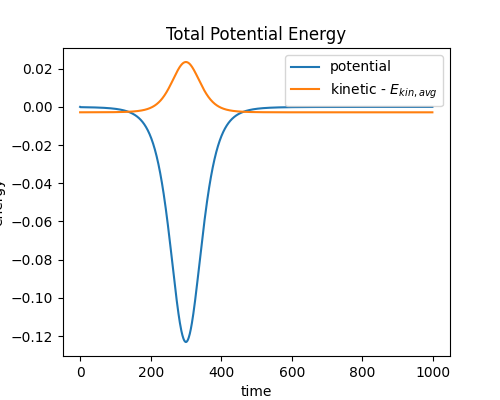
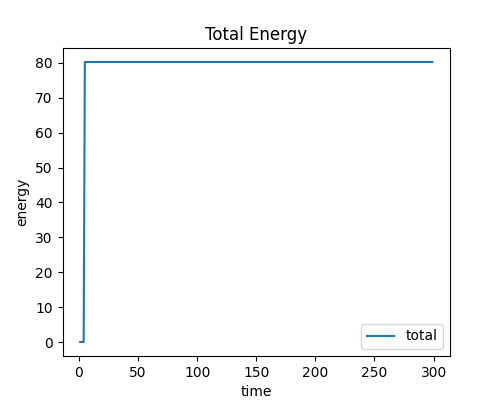
fcc_gaussian

diff --git a/main.py b/main.py
@@ -6,24 +6,31 @@ from matplotlib import animation
 T = 119.8  # [K]   Temperature of system
 kB = 1.380649e-23  # [J/K] Boltzmann constant
 
-epsilon = T * kB  # [J]   Lennard-Jones Potential well depth of Argon
+# rho = 0.3  T = 3.0 gas
+# rho = 0.8  T = 1.0 liquid
+# rho = 1.2  T = 0.5 solid
+rho = 1.2
+temperature = 0.5
+
+# epsilon = T * kB  # [J]   Lennard-Jones Potential well depth of Argon
 sigma = 3.405e-10  # [m]   Lennard-Jones Potential well depth of Argon
 # radius_max = 10000  # [-]   *sigma Lennard-Jones Potential cutoff max radius of interaction
 Ag_m = 6.6335209e-26  # [kg]  Atomic mass of Argon
 
 # Simulation parameters:
-N_particles = 2  # [-]   Amount of particles
-h = 0.001  # [-]   Time step
-N_time = 1000  # [-]   Number of time steps
-box_L = 30  # [-]   *sigma Length of box
+N_particles = 108  # [-]   Amount of particles
+h = 0.01  # [-]   Time step
+N_time = 300  # [-]   Number of time steps
 
+box_L = np.power(N_particles * Ag_m / (sigma ** 3 * rho), 1 / 3)  # [-]   *sigma Length of box
+print("Length of box:", box_L)
 potential_energies = np.zeros(N_time)
 
 # grid (0), random distribution (1), two particles (2)
 if N_particles == 2:
     test_state = 2
 else:
-    test_state = 0
+    test_state = "fcc"
 
 
 def initialize_particles():
@@ -33,33 +40,58 @@ def initialize_particles():
     print("shape of matrix:", particles.shape, "= (t, N, [x y z vx vy vz])")
 
     if test_state == 0:
-        grid_left_boundary = box_L / 2 - 0.8
+        grid_left_boundary = box_L / 2 - 1
         grid_right_boundary = box_L / 2 + 1
         box_grid = np.linspace(grid_left_boundary, grid_right_boundary, num=round(N_particles ** (1 / 3)))
         x_grid, y_grid, z_grid = np.meshgrid(box_grid, box_grid, box_grid)
         particles[0, :, 0] = np.matrix.flatten(x_grid)
         particles[0, :, 1] = np.matrix.flatten(y_grid)
         particles[0, :, 2] = np.matrix.flatten(z_grid)
-        particles[0, :, 3] = 0  # 1/h
-        particles[0, :, 4] = 0  # 1/h
-        particles[0, :, 5] = 0  # 1/h
+        # particles[0, :, 3] = 0  # 1/h
+        # particles[0, :, 4] = 0  # 1/h
+        # particles[0, :, 5] = 0  # 1/h
         return particles
 
     if test_state == 1:
-        np.random.seed(0)
-        random_left_boundary = box_L / 2 - 1
-        random_right_boundary = box_L / 2 + 1
+        # np.random.seed(0)
+        random_left_boundary = box_L / 2 - 2
+        random_right_boundary = box_L / 2 + 2
         particles[0, :, 0] = np.random.uniform(random_left_boundary, random_right_boundary, size=N_particles)
         particles[0, :, 1] = np.random.uniform(random_left_boundary, random_right_boundary, size=N_particles)
         particles[0, :, 2] = np.random.uniform(random_left_boundary, random_right_boundary, size=N_particles)
         return particles
 
     if test_state == 2:
-        v_init_two_particles = 10
+        v_init_two_particles = (1 / h) / 100
         particles[0, 0, 0], particles[0, 0, 1] = [box_L / 2 + 3, box_L / 2 + 1]  # + box_L / 600]
-        particles[0, 1, 0], particles[0, 1, 1] = [box_L / 2 - 3, box_L / 2 - 1]  # - box_L / 600]
+        particles[0, 1, 0], particles[0, 1, 1] = [box_L / 2 - 3, box_L / 2 - 0.5]  # - box_L / 600]
         particles[0, 0, 3], particles[0, 0, 4] = [-v_init_two_particles, 0]
         particles[0, 1, 3], particles[0, 1, 4] = [v_init_two_particles, 0]
+        return particles
+
+    if test_state == "fcc":
+        counter = 0
+        for n1 in range(3):
+            for n2 in range(3):
+                for n3 in range(3):
+                    lattice_displacer = np.array([n1 * box_L / 3, n2 * box_L / 3, n3 * box_L / 3])
+                    particles[0, counter, 0:3] = [0, 0, 0] + lattice_displacer
+                    counter += 1
+                    particles[0, counter, 0:3] = [box_L / 6, box_L / 6, 0] + lattice_displacer
+                    counter += 1
+                    particles[0, counter, 0:3] = [box_L / 6, 0, box_L / 6] + lattice_displacer
+                    counter += 1
+                    particles[0, counter, 0:3] = [0, box_L / 6, box_L / 6] + lattice_displacer
+                    counter += 1
+
+        for j in range(N_particles):
+            gaussian_scale = 0.00001 / h
+            # print(gaussian_scale)
+            vx_random = np.random.normal(scale=gaussian_scale)
+            vy_random = np.random.normal(scale=gaussian_scale)
+            vz_random = np.random.normal(scale=gaussian_scale)
+            # print(vx_random)
+            particles[0, j, 3:6] = [vx_random, vy_random, vz_random]
         return particles
 
 
@@ -117,15 +149,15 @@ def unit_direction(r_abs, x1, x2, y1, y2, z1, z2):
 def periodicity_warp(x_new, y_new, z_new):
     """ Given the updated x,y,z coordinates of a particle, this applies
     periodic boundary conditions, returning the new warped coordinates."""
-    if x_new >= box_L:
+    if x_new > box_L:
         x_new = x_new % box_L
     if x_new < 0:
         x_new = box_L - (abs(x_new) % box_L)
-    if y_new >= box_L:
+    if y_new > box_L:
         y_new = y_new % box_L
     if y_new < 0:
         y_new = box_L - (abs(y_new) % box_L)
-    if z_new >= box_L:
+    if z_new > box_L:
         z_new = z_new % box_L
     if z_new < 0:
         z_new = box_L - (abs(z_new) % box_L)
@@ -172,7 +204,7 @@ def update_velocity(i, j, particles, f_x_old, f_y_old, f_z_old):
     for k in range(N_particles):
         radius = abs_distance(x_new, particles[i][k][0], y_new, particles[i][k][1], z_new, particles[i][k][2])
         if (k != j) and (radius != 0):
-            potential_energies[i] += potential_energy(radius)
+            potential_energies[i] += potential_energy(radius) / N_particles
             force = lj_force(radius)
             r_unit = unit_direction(radius, x_new, particles[i][k][0], y_new, particles[i][k][1], z_new,
                                     particles[i][k][2])
@@ -185,26 +217,42 @@ def update_velocity(i, j, particles, f_x_old, f_y_old, f_z_old):
     vz_new = vz_old + (h / 2) * (f_z_old + f_z)
     return vx_new, vy_new, vz_new
 
-
-def update_particles(i, particles):
-    """ This function updates all particles. """
-    for j in range(N_particles):
-        for k in range(N_particles):
-            f_x, f_y, f_z = interaction_force(i, k, particles)
-            x_new, y_new, z_new = update_position(i, k, particles, f_x, f_y, f_z)
-            particles[i][k][0:3] = [x_new, y_new, z_new]
-        f_x, f_y, f_z = interaction_force(i, j, particles)
-        vx_new, vy_new, vz_new = update_velocity(i, j, particles, f_x, f_y, f_z)
-        particles[i][j][3:6] = [vx_new, vy_new, vz_new]
-
-    return particles
-
-
 def kinetic_energy(velocities):
     """ Given the x,y,z velocities, this returns the dimensioneless kinetic energy. """
     v_x, v_y, v_z = velocities
     v_abs = np.sqrt(v_x ** 2 + v_y ** 2 + v_z ** 2)
+    # print(v_abs)
     return 0.5 * v_abs ** 2
+
+def update_particles(i, particles):
+    """ This function updates all particles. """
+    rescaling_threshold = 5
+
+    for k in range(N_particles):
+        f_x, f_y, f_z = interaction_force(i, k, particles)
+        x_new, y_new, z_new = update_position(i, k, particles, f_x, f_y, f_z)
+        particles[i][k][0:3] = [x_new, y_new, z_new]
+
+    if i == rescaling_threshold:
+        sum_kin_en = 0
+        for j in range(N_particles):
+            sum_kin_en += 2*kinetic_energy(particles[i-1, j, 3:])
+        lambda_thermal = np.sqrt(((N_particles-1)*3*temperature)/sum_kin_en)
+        print((lambda_thermal))
+        for j in range(N_particles):
+            f_x, f_y, f_z = interaction_force(i, j, particles)
+            vx_new, vy_new, vz_new = update_velocity(i, j, particles, f_x, f_y, f_z)
+            particles[i][j][3:6] = np.multiply([vx_new, vy_new, vz_new], lambda_thermal)
+        # print(vx_new,vy_new,vz_new)
+        # print(np.multiply([vx_new, vy_new, vz_new], lambda_thermal))
+
+    else:
+        for j in range(N_particles):
+            f_x, f_y, f_z = interaction_force(i, j, particles)
+            vx_new, vy_new, vz_new = update_velocity(i, j, particles, f_x, f_y, f_z)
+            particles[i][j][3:6] = [vx_new, vy_new, vz_new]
+
+    return particles
 
 
 def plot_kinetic_energy(particles):
@@ -238,14 +286,18 @@ def plot_potential_energy():
 
 def plot_total_energy(particles):
     plt.figure(figsize=(5, 4))
-    plt.title("Total Potential Energy")
+    plt.title("Total Energy")
     kin_en = plot_kinetic_energy(particles)
-    plt.plot(np.arange(0, N_time), potential_energies, label="potential")
-    plt.plot(np.arange(0, N_time), kin_en - np.average(kin_en),
-             label="kinetic - $E_{kin, avg}$")
-    # plt.plot(np.arange(0, N_time), potential_energies+total_kinetic_energy_list, label="total")
+    # plt.plot(np.arange(1, N_time), potential_energies[1:], label="potential")
+    # plt.plot(np.arange(1, N_time), kin_en[1:] - kin_en[0],
+    #          label="kinetic - $E_{kin, avg}$")
+    # plt.plot(np.arange(1, N_time), kin_en[1:], label="kinetic")
+
+    plt.plot(np.arange(1, N_time), potential_energies[1:] + kin_en[1:], label="total")
+    # print(np.min(potential_energies) / np.max(kin_en - kin_en[0]))
     plt.xlabel("time")
     plt.ylabel("energy")
+    # plt.yscale("log")
     plt.legend()
     plt.savefig("total_energies.png")
     plt.close()
@@ -296,9 +348,8 @@ particles_simulation = main()
 plot_potential_energy()
 plot_kinetic_energy(particles_simulation)
 plot_total_energy(particles_simulation)
-if N_particles == 2:
-    plot_z_slice(particles_simulation)
-else:
-    generate_gif(particles_simulation)
-
-# generate_gif(particles_simulation)
+generate_gif(particles_simulation)
+# if N_particles == 2:
+#     plot_z_slice(particles_simulation)
+# else:
+#     generate_gif(particles_simulation)
